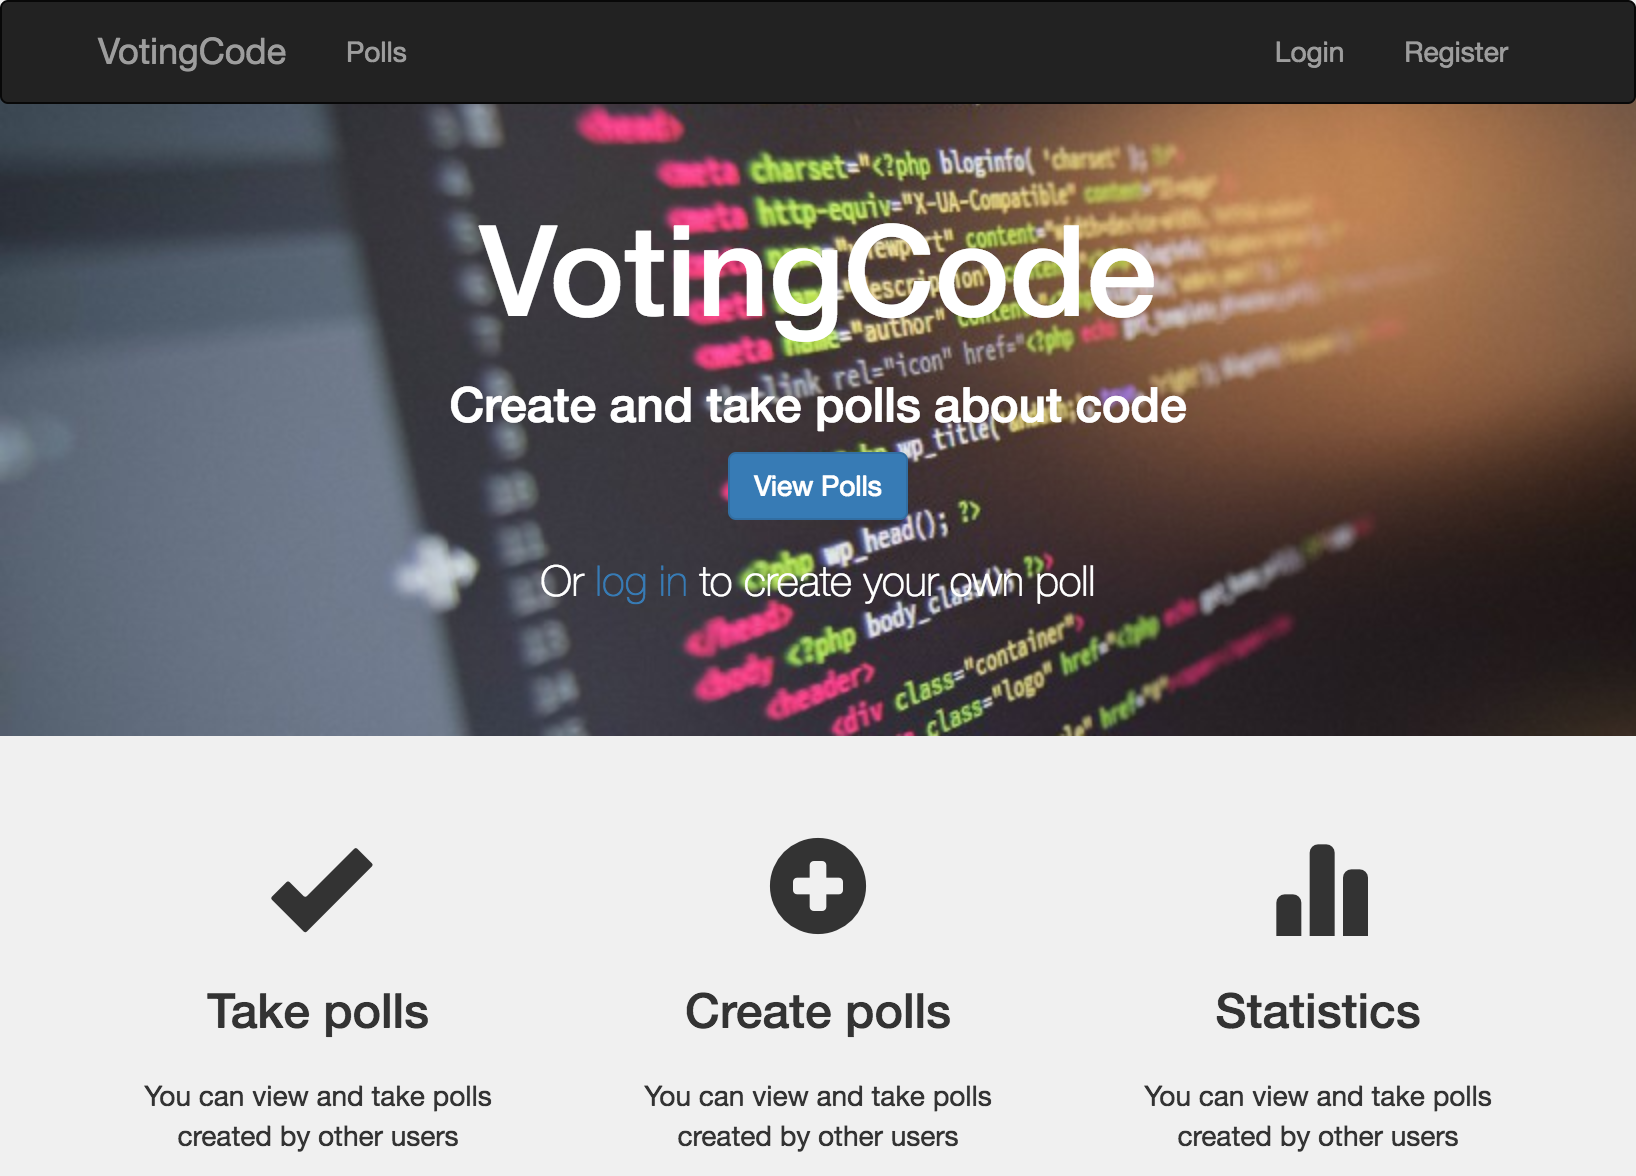
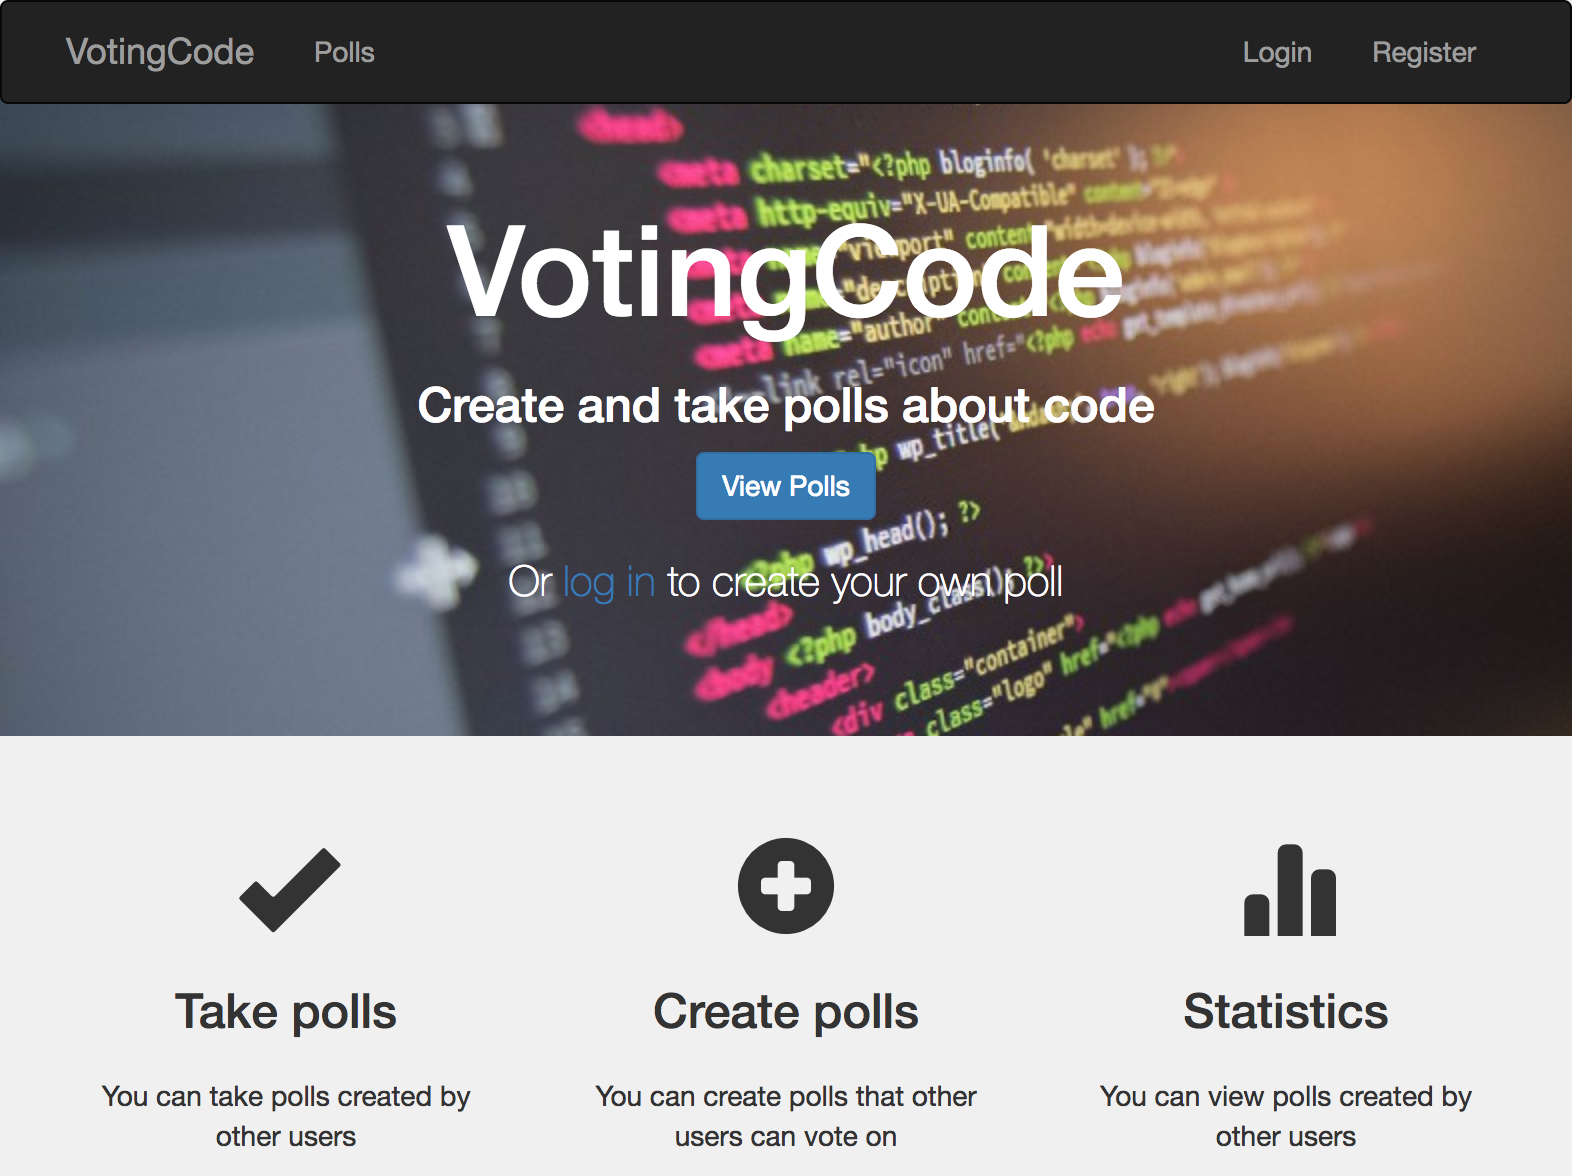
changed text on home page and changed home image

diff --git a/client/src/components/Home.js b/client/src/components/Home.js
@@ -29,17 +29,17 @@ class Home extends Component {
               <Col xs={12} sm={4}>
                 <Glyphicon glyph="ok" />
                 <h3>Take polls</h3>
-                <p>You can view and take polls created by other users</p>
+                <p>You can take polls created by other users</p>
               </Col>
               <Col xs={12} sm={4}>
                 <Glyphicon glyph="plus-sign" />
                 <h3>Create polls</h3>
-                <p>You can view and take polls created by other users</p>
+                <p>You can create polls that other users can vote on</p>
               </Col>
               <Col xs={12} sm={4}>
                 <Glyphicon glyph="stats" />
                 <h3>Statistics</h3>
-                <p>You can view and take polls created by other users</p>
+                <p>You can view polls created by other users</p>
               </Col>
             </Row>
           </Grid>
